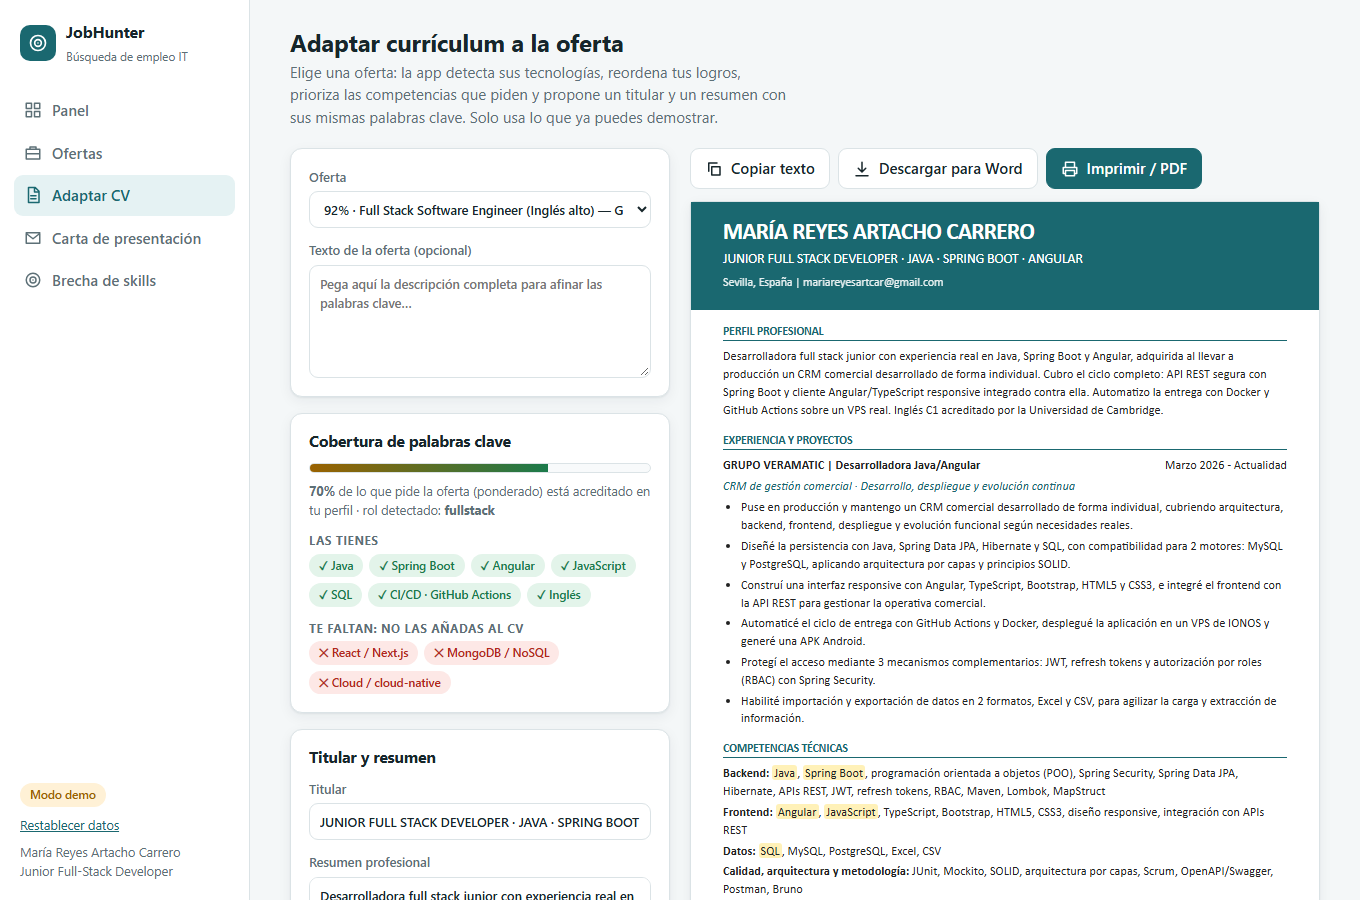
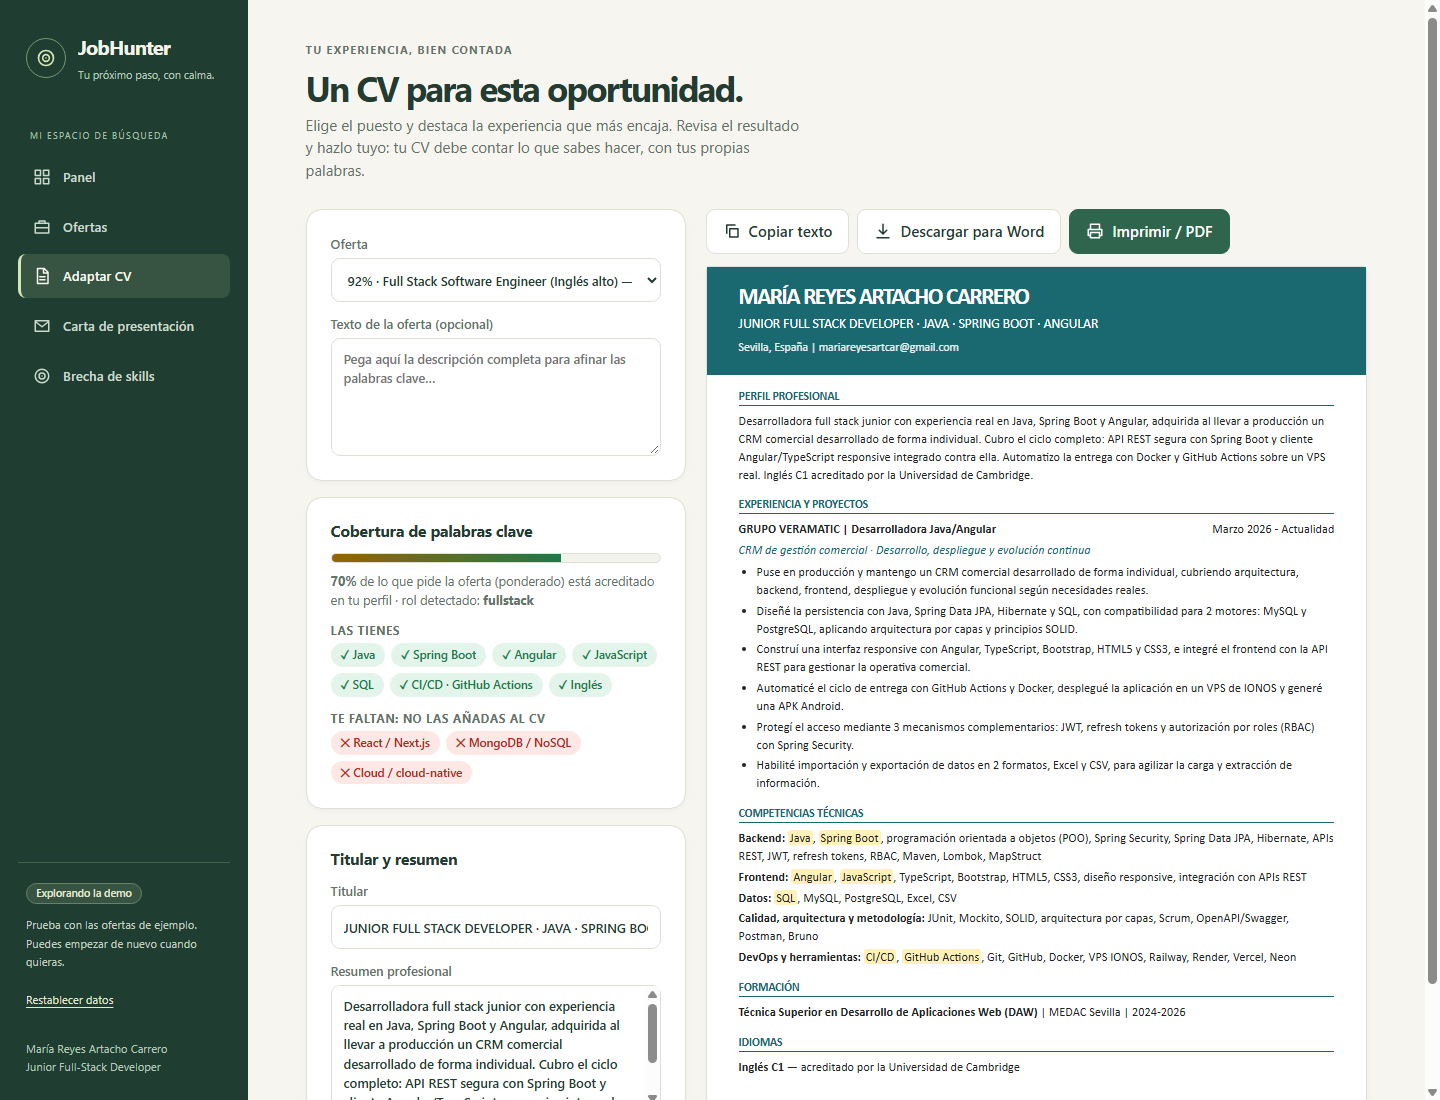
docs: update frontend screenshots after visual refresh
Capture the dashboard, offers, CV tailoring, skills analysis, and cover letter screens with the new visual design using a consistent 1440 by 1100 browser viewport. Extend the README gallery with the cover letter and skills screens.

Validation: inspected all captured sections with the demo dataset and verified the expected route and page heading for each screen.

diff --git a/README.md b/README.md
@@ -29,6 +29,10 @@
     <td><img src="docs/screenshots/ofertas.png" alt="Ofertas"></td>
     <td><img src="docs/screenshots/adaptar-cv.png" alt="Adaptar CV"></td>
   </tr>
+  <tr>
+    <td><img src="docs/screenshots/carta.png" alt="Cover letter editor"></td>
+    <td><img src="docs/screenshots/skills.png" alt="Skills gap analysis"></td>
+  </tr>
 </table>
 
 ## Stack
